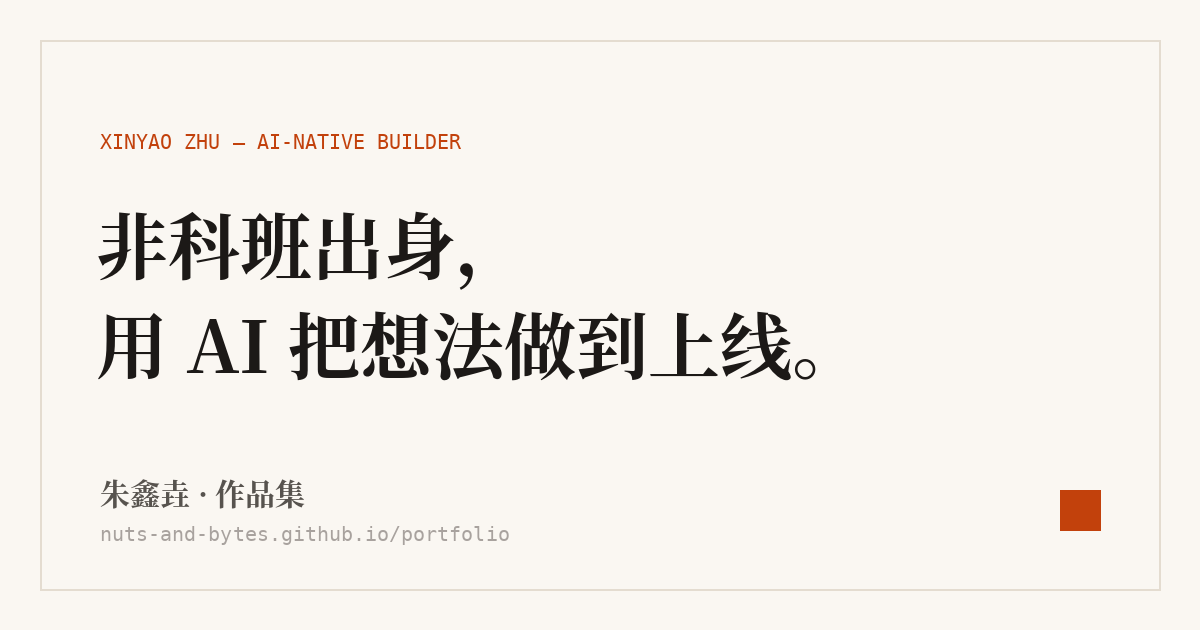
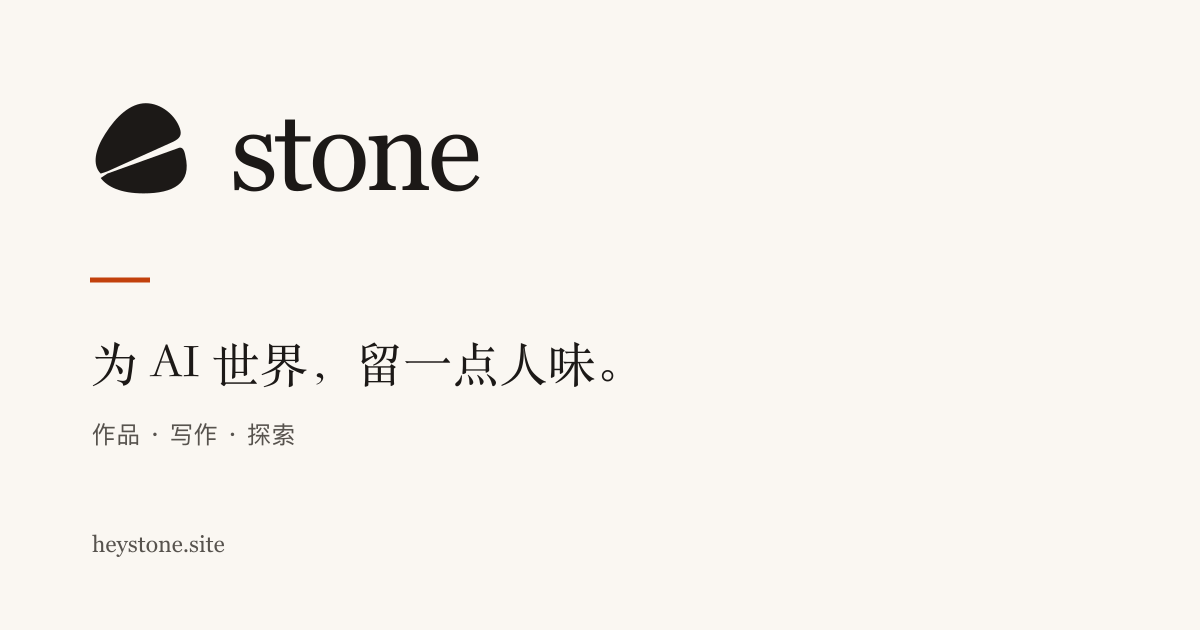
统一 stone 品牌、石形标识与分享图标

diff --git a/index.html b/index.html
@@ -4,24 +4,24 @@
     <meta charset="UTF-8" />
     <meta name="viewport" content="width=device-width, initial-scale=1.0" />
     <link rel="icon" type="image/svg+xml" href="%BASE_URL%favicon.svg" />
-    <link rel="apple-touch-icon" sizes="180x180" href="%BASE_URL%apple-touch-icon.png" />
-    <meta name="apple-mobile-web-app-title" content="HeyStone" />
+    <link rel="apple-touch-icon" sizes="180x180" href="%BASE_URL%apple-touch-icon.png?v=stone-1" />
+    <meta name="apple-mobile-web-app-title" content="stone" />
     <meta name="theme-color" content="#FAF7F2" />
     <meta name="description" content="朱鑫垚（Eric）· 商务出身，为 AI 世界留一点人味。企业级 LLM 应用与独立开发作品集。" />
     <meta name="author" content="朱鑫垚 Xinyao Zhu" />
-    <title>朱鑫垚 Xinyao Zhu · 为 AI 世界留一点人味</title>
+    <title>stone · 为 AI 世界留一点人味</title>
 
     <meta property="og:type" content="website" />
-    <meta property="og:site_name" content="朱鑫垚 · 作品集" />
-    <meta property="og:title" content="朱鑫垚 Xinyao Zhu · 为 AI 世界留一点人味" />
+    <meta property="og:site_name" content="stone" />
+    <meta property="og:title" content="stone · 为 AI 世界留一点人味" />
     <meta property="og:description" content="商务出身的 AI-native builder：企业级 LLM 系统、上线的 Web 作品，以及一个会自己生长的知识库。" />
     <meta property="og:url" content="https://heystone.site/" />
-    <meta property="og:image" content="https://heystone.site/og-image.png" />
+    <meta property="og:image" content="https://heystone.site/og-image.png?v=stone-1" />
     <meta property="og:locale" content="zh_CN" />
     <meta name="twitter:card" content="summary_large_image" />
-    <meta name="twitter:title" content="朱鑫垚 Xinyao Zhu · 为 AI 世界留一点人味" />
+    <meta name="twitter:title" content="stone · 为 AI 世界留一点人味" />
     <meta name="twitter:description" content="商务出身，用 AI 把想法做成能用的产品。" />
-    <meta name="twitter:image" content="https://heystone.site/og-image.png" />
+    <meta name="twitter:image" content="https://heystone.site/og-image.png?v=stone-1" />
 
     <link rel="preconnect" href="https://fonts.googleapis.com" />
     <link rel="preconnect" href="https://fonts.gstatic.com" crossorigin />

diff --git a/src/pages/Home.jsx b/src/pages/Home.jsx
@@ -48,7 +48,7 @@ const experiments = [
     cta: '试用',
   },
   {
-    title: 'nuts & bytes · 博客',
+    title: 'stone · 博客',
     tag: '开源 · 持续更新',
     desc: '「用 AI 重做自己」的公开记录——教程、心得、踩坑，都老实写下来。',
     link: ghUrl('ai-songshu-garden/'),
@@ -262,7 +262,7 @@ export default function Home() {
             <span className="post-arrow">→</span>
           </a>
           <p className="writing-more rv">
-            更多教程、心得和踩坑记录，在 <a href={ghUrl('ai-songshu-garden/')} target="_blank" rel="noopener noreferrer">nuts & bytes ↗</a>
+            更多教程、心得和踩坑记录，在 <a href={ghUrl('ai-songshu-garden/')} target="_blank" rel="noopener noreferrer">stone ↗</a>
           </p>
         </div>
       </section>

diff --git a/src/index.css b/src/index.css
@@ -896,3 +896,14 @@ body::after {
   .case-entry { align-items: flex-start; flex-direction: column; gap: 8px; margin-top: 16px; }
   .case-details { margin-top: 24px; padding-top: 20px; }
 }
+
+/* Stone: approved stone-and-page mark, shared with the blog. */
+.nav-logo { display: inline-flex; align-items: center; gap: 7px; letter-spacing: 0; flex-shrink: 0; }
+.nav-logo img { display: block; width: 32px; height: 32px; }
+.stone-wordmark { font-family: Georgia, "Times New Roman", serif; font-size: 32px; font-weight: 400; line-height: 1; letter-spacing: -1.2px; }
+@media (min-width: 360px) and (max-width: 640px) {
+  .nav-logo { gap: 3px; }
+  .nav-logo img { width: 24px; height: 24px; }
+  .stone-wordmark { font-size: 26px; letter-spacing: -1px; }
+  .nav-links :is(button, a) { padding-inline: 6px; }
+}

diff --git a/src/components/Navbar.jsx b/src/components/Navbar.jsx
@@ -42,8 +42,8 @@ export default function Navbar() {
     <nav className={`nav ${scrolled ? 'nav-scrolled' : ''}`}>
       <div className="nav-progress" style={{ width: `${progress}%` }} />
       <div className="nav-inner">
-        <button className="nav-logo" onClick={() => window.scrollTo({ top: 0, behavior: 'smooth' })}>
-          朱鑫垚 <span className="nav-logo-en">Xinyao Zhu</span>
+        <button className="nav-logo" aria-label="stone，返回首页顶部" onClick={() => window.scrollTo({ top: 0, behavior: 'smooth' })}>
+          <img src={`${import.meta.env.BASE_URL}brand/stone-mark.svg`} width="32" height="32" alt="" /><span className="stone-wordmark">stone</span>
         </button>
         <div className="nav-links">
           {links.map((l) => (

diff --git a/src/components/Footer.jsx b/src/components/Footer.jsx
@@ -1,7 +1,7 @@
 export default function Footer() {
   return (
     <footer className="footer">
-      <p>© 2026 朱鑫垚 · 为 AI 世界留一点人味</p>
+      <p>© 2026 stone · 朱鑫垚 · 为 AI 世界留一点人味</p>
     </footer>
   )
 }

diff --git a/BRAND.md b/BRAND.md
@@ -1,0 +1,9 @@
+# stone 品牌
+
+2026-10-28 用户批准：石头与书页的留白标记、小写 stone 衬线字标；暖纸白 #FAF7F2、墨黑 #1C1917、陶土橙 #C2410C。保留真实姓名、heystone.site 域名、GitHub 账号与文章地址。
+
+## 实施与核验
+- 在个人网站及独立博客更新名称、导航标识与分享元数据。
+- public/brand/ 保存可编辑矢量源；PNG 图标及分享卡片从矢量源渲染。
+- 检查手机 320/390px 与桌面导航、图标资源及链接。
+- 分别构建，运行博客既有检查，推送并确认 Vercel / GitHub Pages 线上结果。
